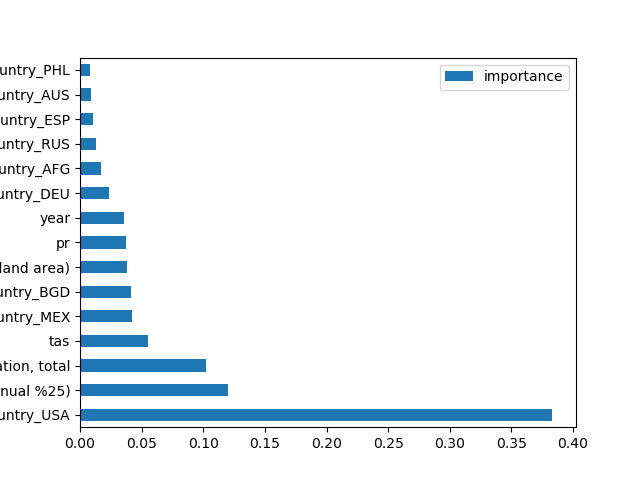
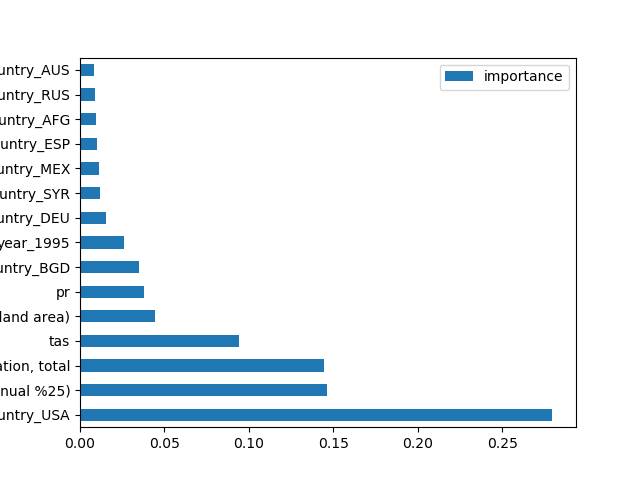
rf done and dusted

diff --git a/tree analysis.py b/tree analysis.py
@@ -10,38 +10,75 @@ import os
 
 os.environ["PATH"] += os.pathsep + 'C:/Program Files (x86)/graphviz/release/bin/'
 
-
-
 data = f.openfile('data.h5')
 
-labels = np.array(data['Net migration'])
+labels = np.array(-1 * data['Net migration'])
 features = data.drop('Net migration', axis=1)
-features['year'] = features['year'].apply(lambda x: x.year)
+features['year'] = features['year'].apply(lambda x: str(x.year))
 features = pd.get_dummies(features)
 features_list = list(features.columns)
 
+data['year'] = data['year'].apply(lambda x: str(x.year))
+data['key'] = data[['country', 'year']].apply(lambda x: ''.join(x), axis=1)
+
 train_features, test_features, train_labels, test_labels = train_test_split(features, labels, test_size=0.25)
+idx = test_features.index
+keys = data['key'].iloc[idx]
 
 rf = RandomForestRegressor(n_estimators=1000)
 fit = rf.fit(train_features, train_labels)
+
+predictions = rf.predict(test_features)
+errors = abs(predictions - test_labels)
+MSE = (errors ** 2).mean()
+print('Mean Square Error model full:' + str(MSE))
 
 '''
 ONLY LET THIS RUN ONCE, IT'S SLOW AS FUCK
 tree = rf.estimators_[5]
 export_graphviz(tree, out_file='tree.dot', feature_names=features_list, rounded=True, precision=1)
 (graph,) = pydot.graph_from_dot_file('tree.dot')
-graph.write_png('tree.png')
+graph.write_png('tree.png')'''
 
 rf_small = RandomForestRegressor(n_estimators=10, max_depth=3)
 rf_small.fit(train_features, train_labels)
 tree_small = rf_small.estimators_[5]
 export_graphviz(tree_small, out_file='small_tree.dot', feature_names=features_list, rounded=True, precision=1)
 (graph,) = pydot.graph_from_dot_file('small_tree.dot')
-graph.write_png('small_tree.png')'''
+graph.write_png('small_tree.png')
 
 feature_importances = pd.DataFrame(rf.feature_importances_, index=features.columns, columns=['importance']).sort_values(
     'importance', ascending=False)
 importances = feature_importances[:15]
+f.savefile(feature_importances, "rf_feature importances")
+
 fig = importances.plot(kind='barh', y='importance')
 plt.savefig('random_forest features.png')
+plt.show()
+
+rf_most_important = RandomForestRegressor(n_estimators=1000)
+important_indices = list(importances[:9].index)
+train_important = train_features[important_indices]
+test_important = test_features[important_indices]
+
+rf_most_important.fit(train_important, train_labels)
+predictions_important = rf_most_important.predict(test_important)
+errors_reduced = (predictions_important - test_labels)
+MSE_reduced = (errors_reduced ** 2).mean()
+print('Mean Square Error model reduced:' + str(MSE_reduced))
+print('difference between the two MSE: ', str(MSE - MSE_reduced))
+
+predictions_data = pd.DataFrame({'prediction': predictions, 'key': keys})
+true_data = pd.DataFrame({'actual': test_labels, 'key': keys})
+
+plt.plot(true_data['key'], true_data['actual'], 'b-', label='actual')
+plt.plot(predictions_data['key'], predictions_data['prediction'], 'ro', label='prediction')
+
+plt.xticks(rotation='60')
+plt.legend()
+plt.xlabel('key')
+plt.ylabel('Net Migration')
+plt.title('Actual and Predicted Values')
+plt.savefig('rf actual vs predicted.png')
+plt.gca().axes.get_xaxis().set_visible(False)
 plt.show()
